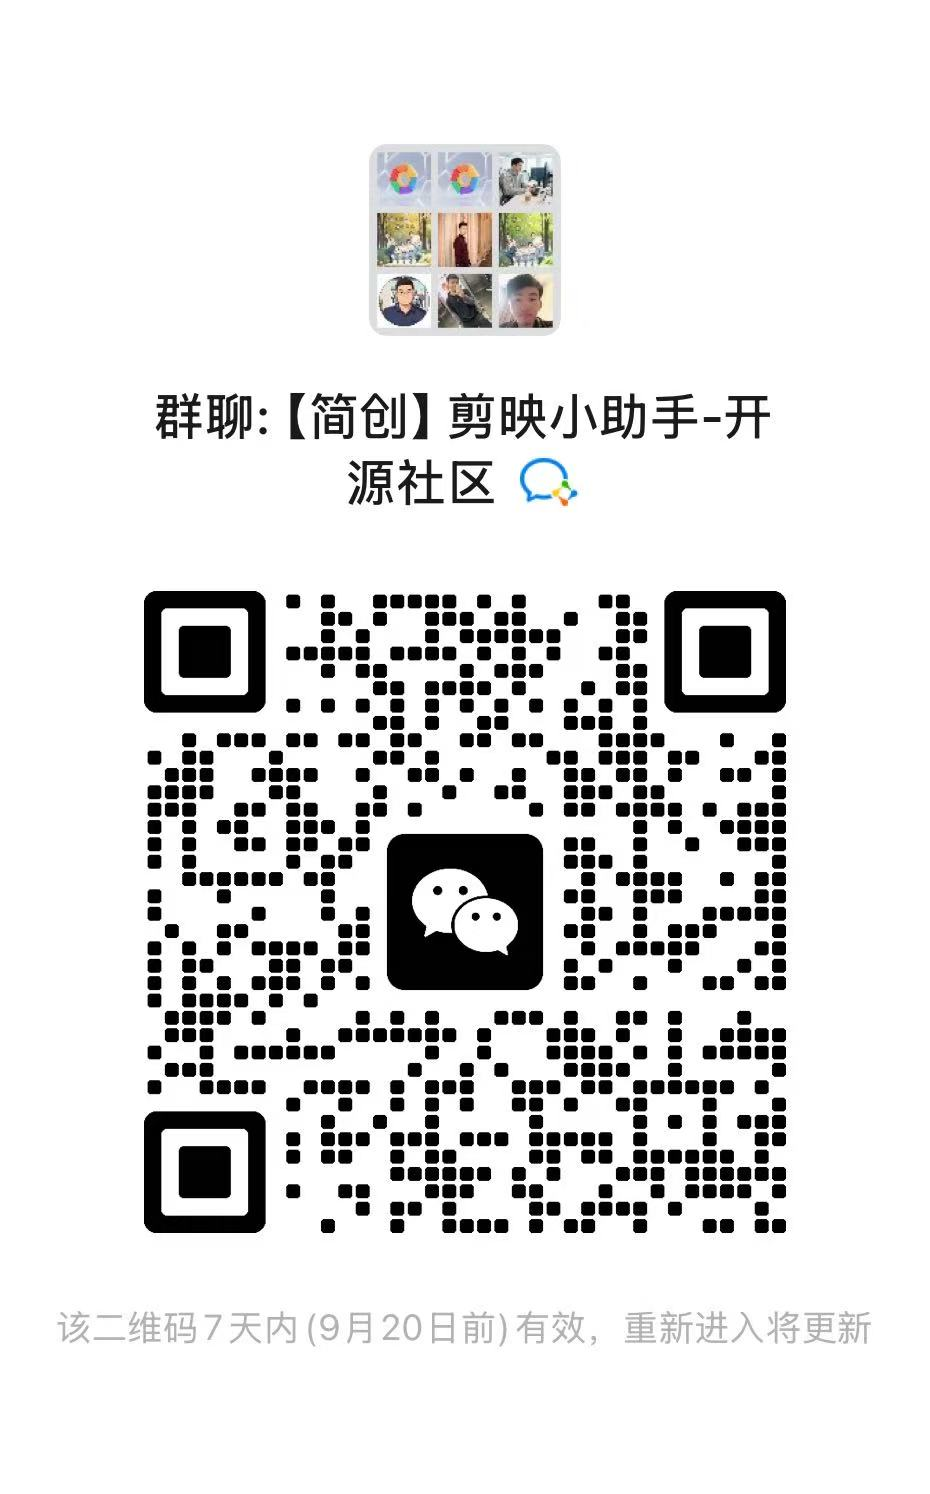
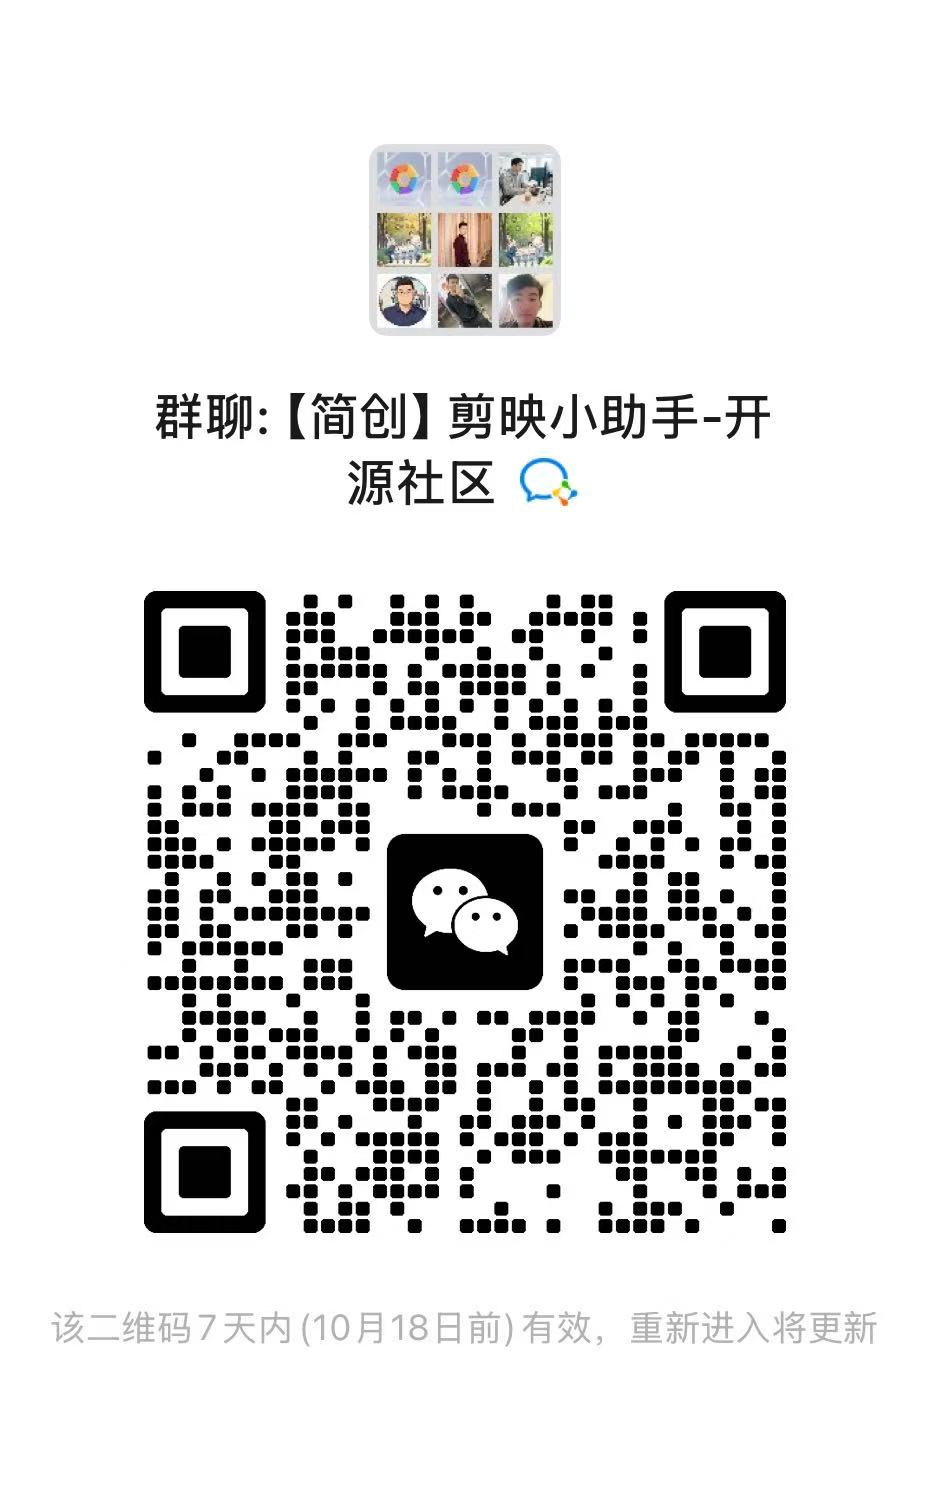
更新文档。

diff --git a/README.md b/README.md
@@ -273,7 +273,8 @@ npm start
 
 | Type | Method | Description |
 |------|--------|-------------|
-| 💬 WeChat | <div align="center"><img src="./assets/wechat.jpg" width="120" alt="WeChat QR code"></div> | Add this WeChat to join the open source community group (business cooperation welcome too) |
+| 📱 WeChat Group | <div align="center"><img src="./assets/wechat-q.jpg" width="200" alt="Jianying Assistant"></div> | Open Source Community Discussion Group |
+| 💬 WeChat | <div align="center"><img src="./assets/wechat.jpg" width="120" alt="WeChat QR code"></div> | Business Cooperation |
 | 📧 Email | taohongmin51@gmail.com | Technical Support |
 
 ---

diff --git a/README.zh.md b/README.zh.md
@@ -273,7 +273,8 @@ npm start
 
 | 类型 | 方式 | 说明 |
 |------|------|------|
-| 💬 微信 | <div align="center"><img src="./assets/wechat.jpg" width="120" alt="微信二维码"></div> | 添加微信进入开源社区交流群（也欢迎商业合作） |
+| 📱 微信群 | <div align="center"><img src="./assets/wechat-q.jpg" width="200" alt="剪映小助手"></div> | 开源社区问题交流群 |
+| 💬 微信 | <div align="center"><img src="./assets/wechat.jpg" width="120" alt="微信二维码"></div> | 商业合作 |
 | 📧 邮箱 | taohongmin51@gmail.com | 技术支持 |
 
 ---
